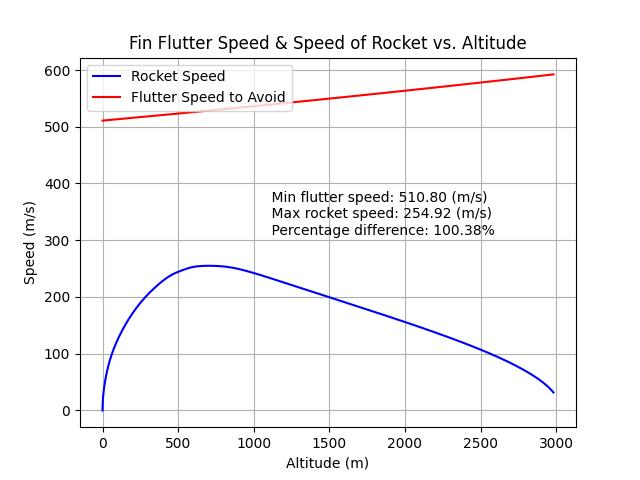
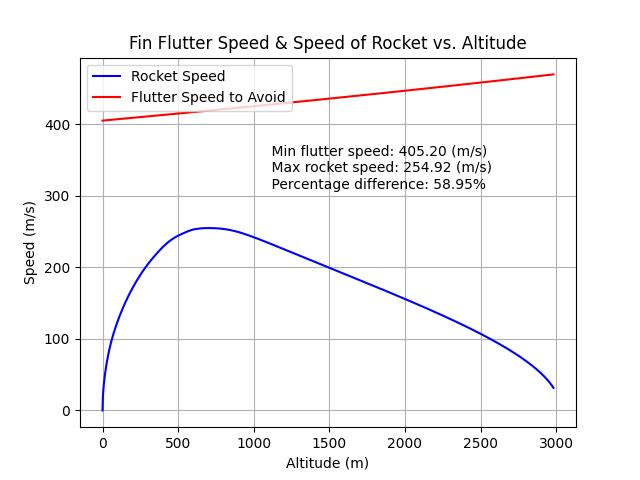
Add files via upload

diff --git a/Fin Flutter Analysis/finFlutter.py b/Fin Flutter Analysis/finFlutter.py
@@ -12,13 +12,13 @@ import pandas as pd
 
 # Shear modulus of fin material (in Pa)
 # Reference: https://www.matweb.com/search/datasheet.aspx?matguid=39e40851fc164b6c9bda29d798bf3726&ckck=1
-G = 4 * 10**9
+G = 5 * 10**9
 
 # Geometric dimensions of the fin (thickness, root&tip chord, semi span) (in m)
 t = 5 * 10**-3
-cr = 300 * 10**-3
+cr = 400 * 10**-3
 ct = 80 * 10**-3
-b = 120 * 10**-3
+b = 145 * 10**-3
 
 # Import expected speed of the rocket UP TO APOGEE
 data = pd.read_csv('Altitude_vs_velocity_rev3.csv')
